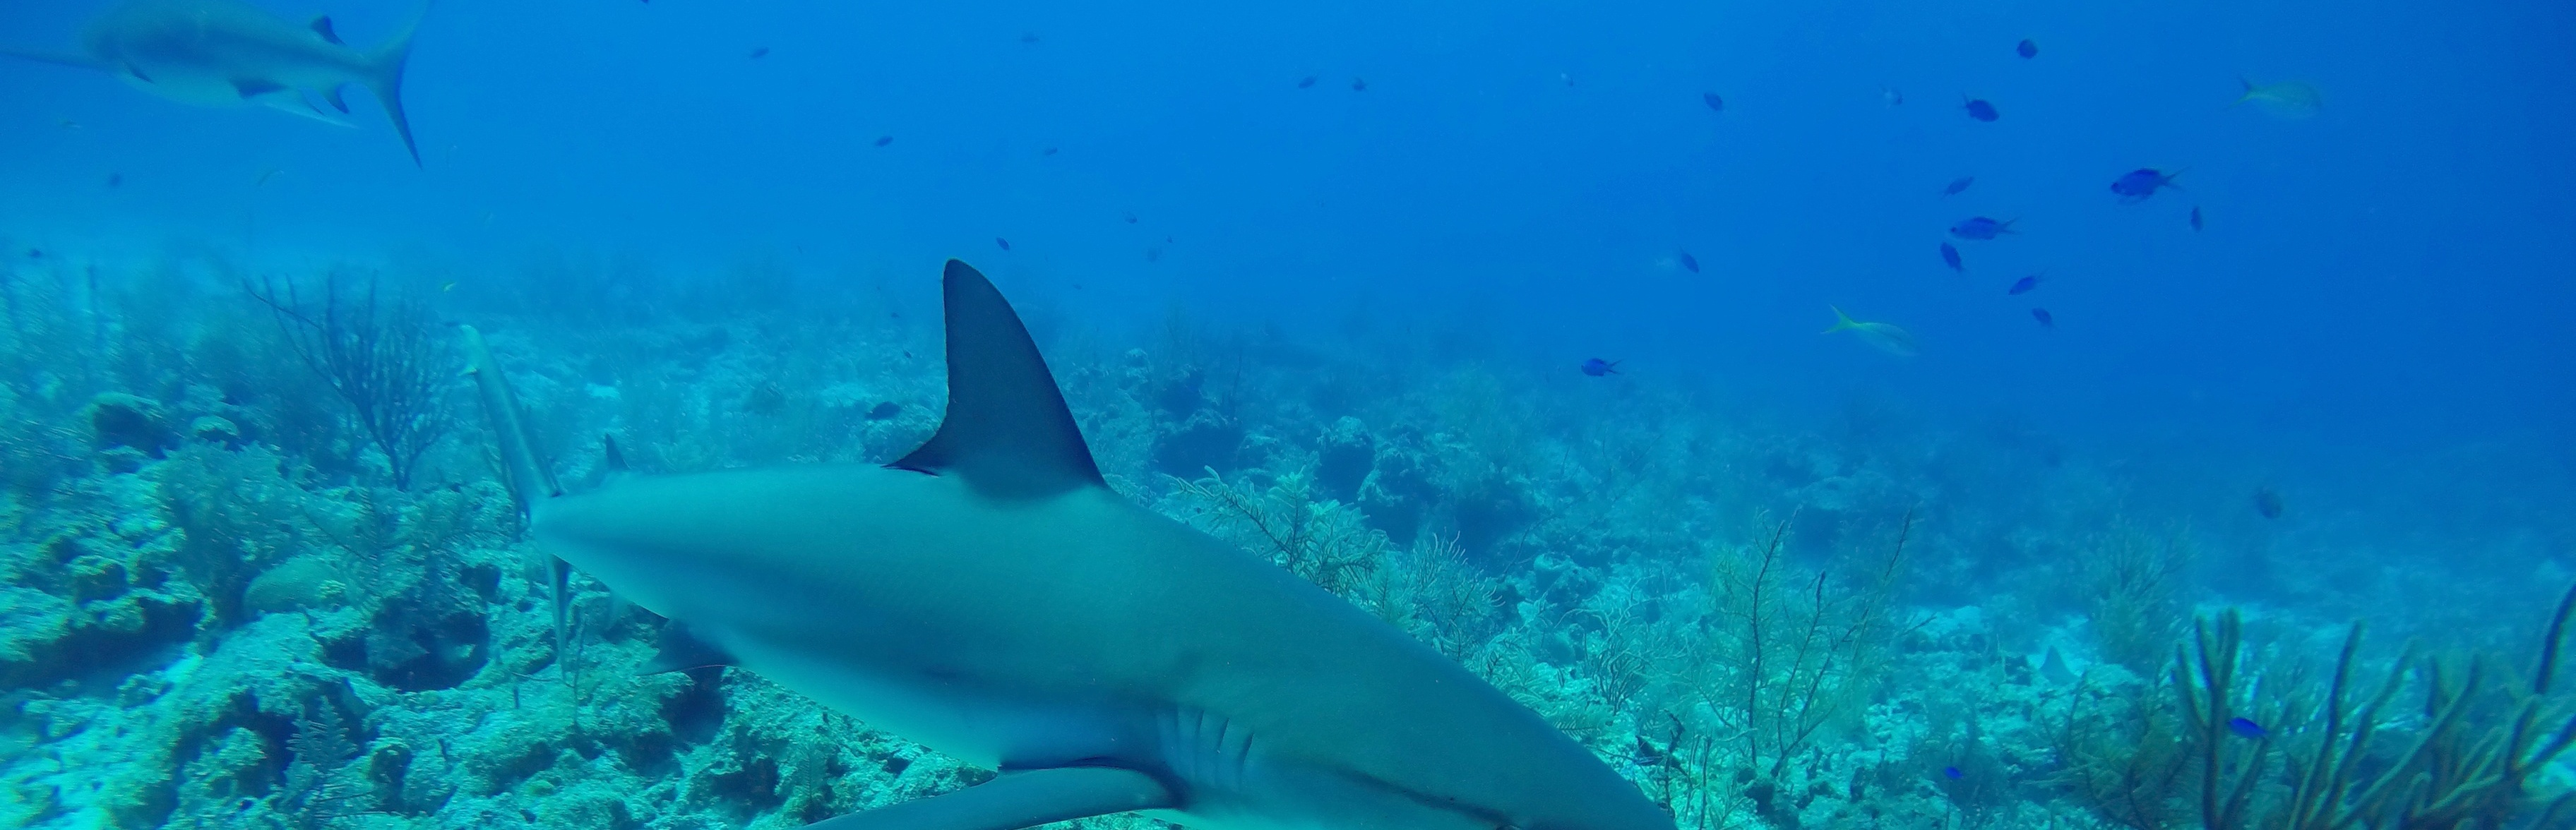
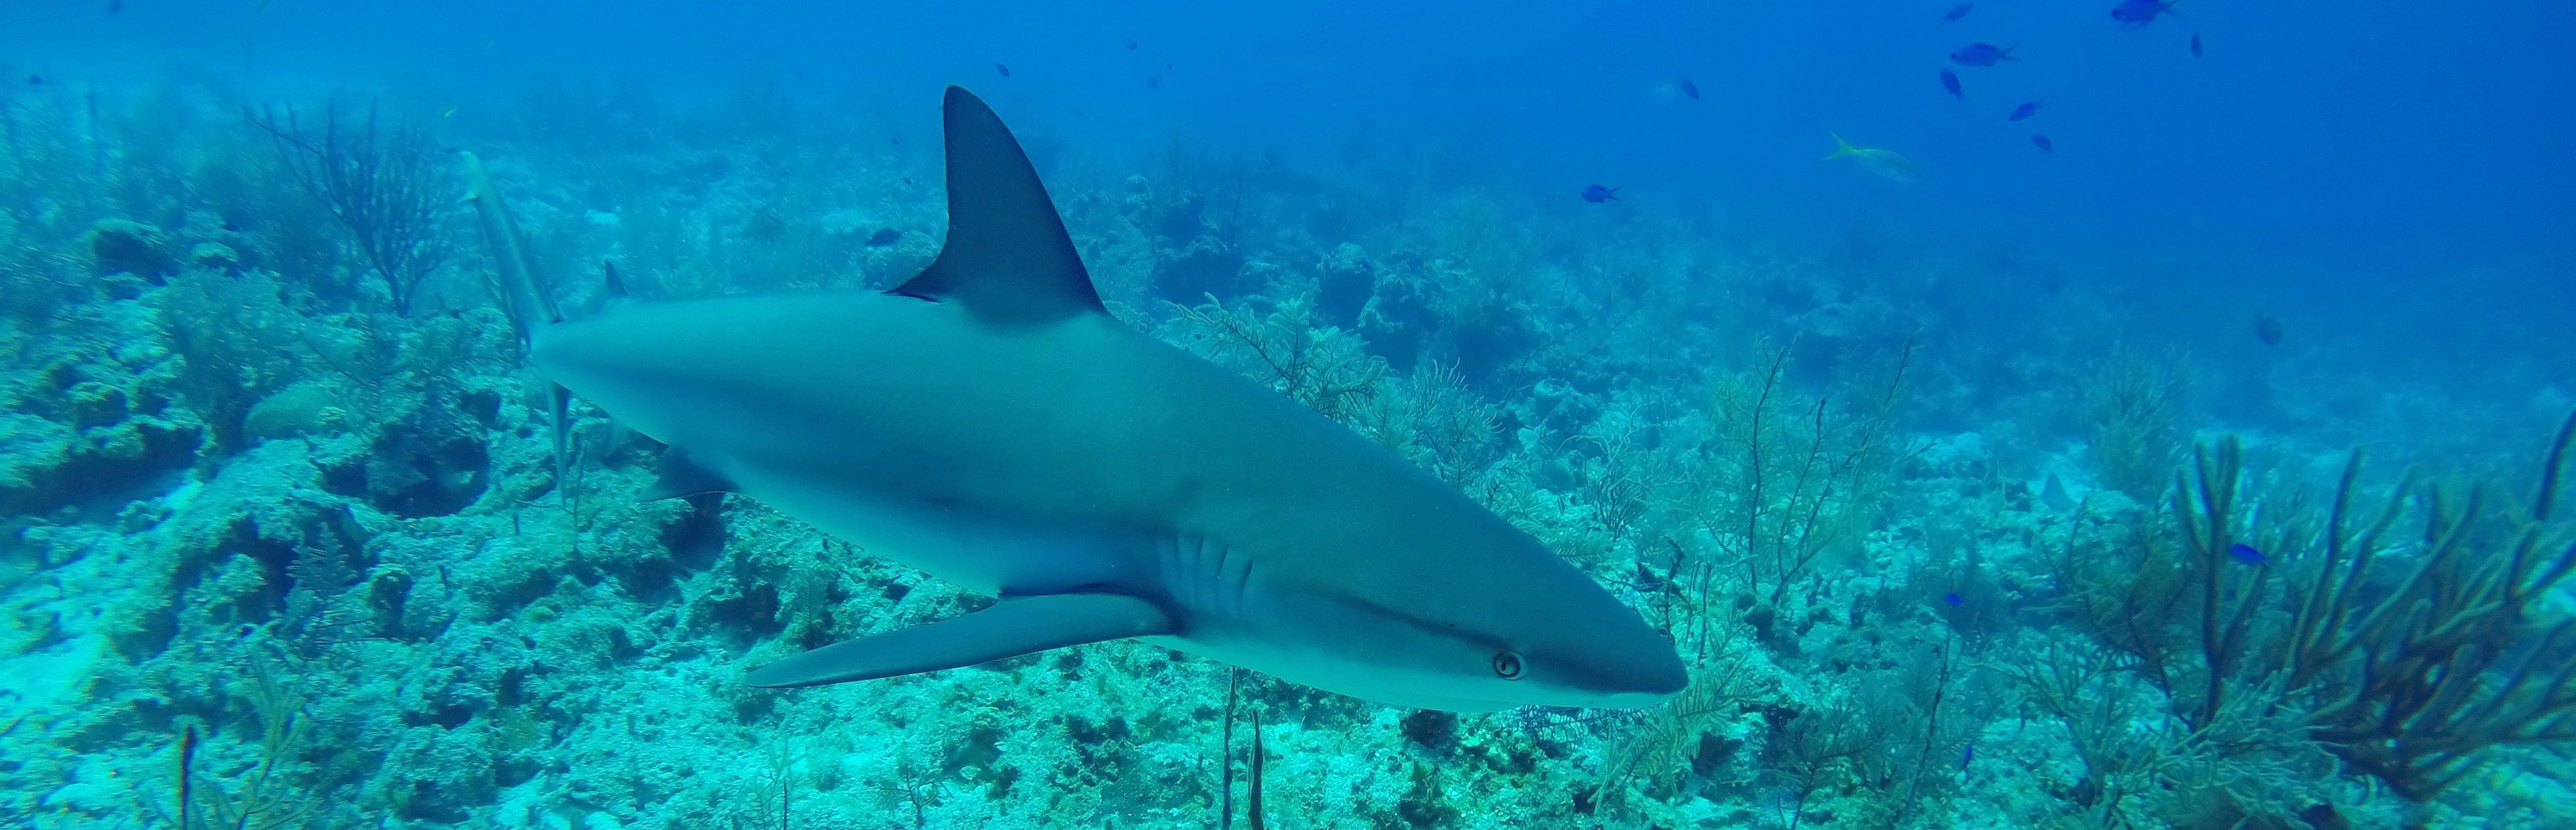
publications page updates

diff --git a/css/style.css b/css/style.css
@@ -189,12 +189,9 @@ a { color: inherit; }
   .hero-photo { object-position: 0% top; }
 }
 
-/* publications header: reef shark sits low in the frame, so anchor the crop
-   to the bottom of the photo (not the default top) to keep it in view */
-.hero-photo.hero-photo--pubs { object-position: center bottom; }
-@media (max-width: 720px) {
-  .hero-photo.hero-photo--pubs { object-position: 40% bottom; }
-}
+/* publications header: banner is pre-cropped around the shark, so a plain
+   center position keeps it fully in view at every breakpoint */
+.hero-photo.hero-photo--pubs { object-position: center; }
 .hero.has-photo::before {
   content: "";
   position: absolute;
